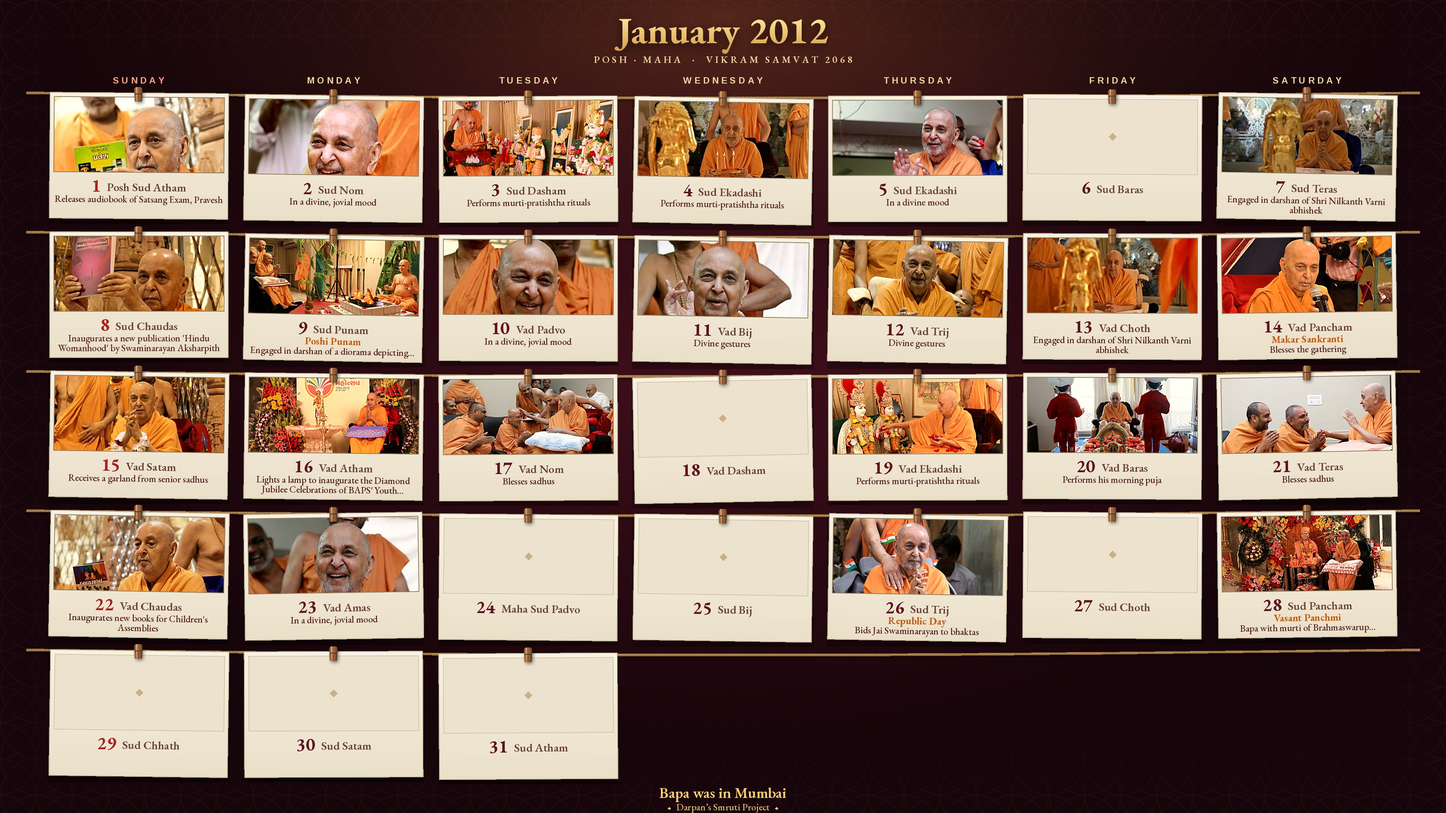
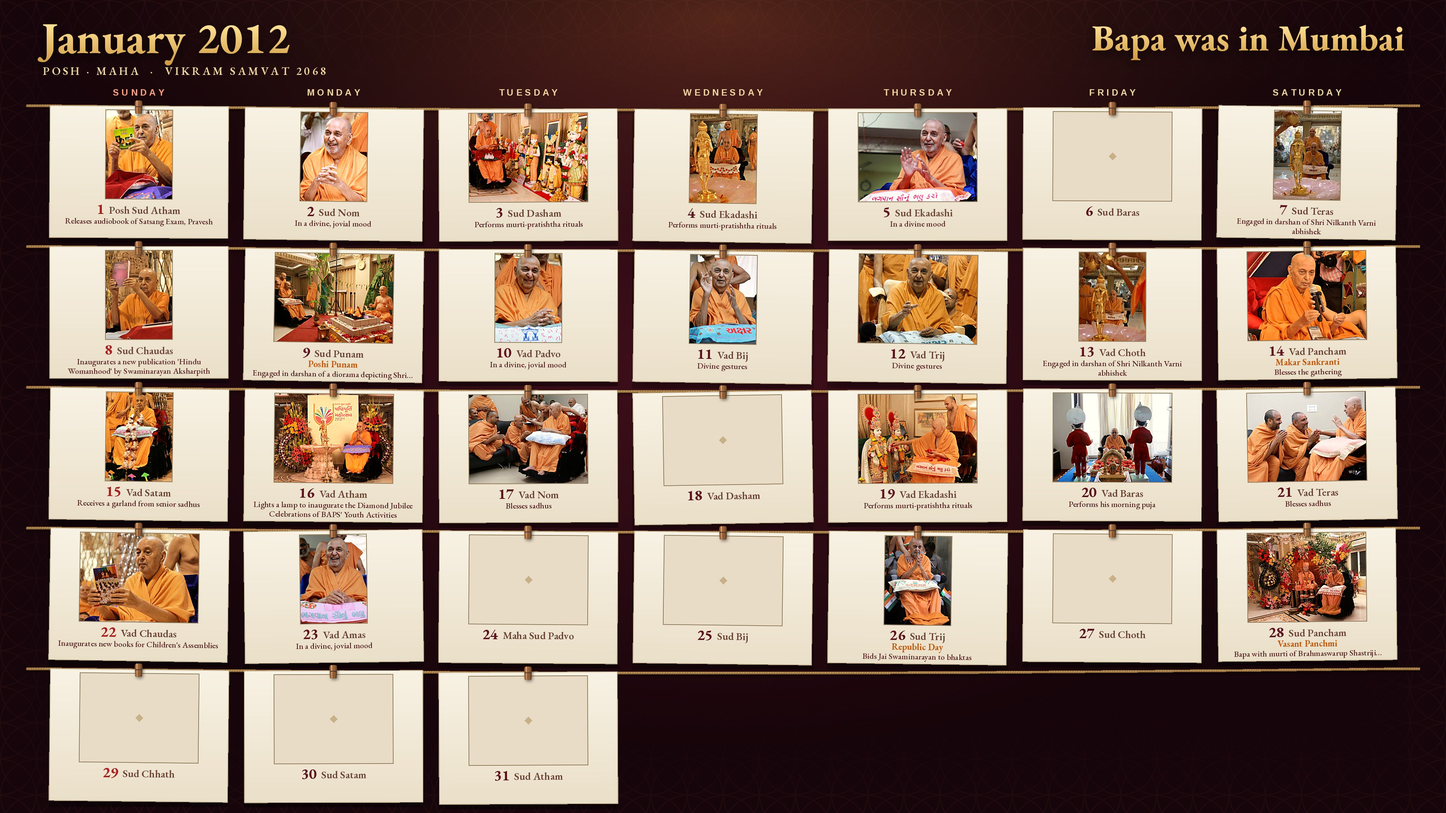
Calendar cords poster: month and where Bapa was across the top, no footer, every photo shown whole, smaller tidier text
Claude-Session: https://claude.ai/code/session_01WgprnKj5HgNVzCk1fS9hSj

diff --git a/tools/poster.py b/tools/poster.py
@@ -504,36 +504,51 @@ def m4_wide(cal, photos, y, m, S=2):
 
 
 def m4_mix(cal, photos, y, m, kind):
-    """The BAPS calendar grid in the M4 month card's look (Darpan, 23 Oct 2026): the diary's maroon, a gold title,
-    one ivory card per day hanging on a cord per week, every day shown with its Indian date. kind 'close' shows the
-    close darshans, 'act' the activities with their captions, 'mixed' the day's special moment or else its darshan.
-    16:9, 3840 x 2160."""
+    """The BAPS calendar grid in the M4 month card's look (Darpan, 23 Oct 2026): the diary's maroon, the month and
+    where Bapa was across the top, one ivory card per day hanging on a cord per week, every day with its Indian date.
+    Each photo is shown whole in a 4:3 frame (never cut). kind 'close' shows the close darshans, 'act' the activities
+    with their captions, 'mixed' the day's special moment or else its darshan (his pick). 16:9, 3840 x 2160."""
     import month as mc, make
     W2, H2 = 3840, 2160
     img = mc.canvas((W2, H2), glow=.45, jali=.08)
     d = ImageDraw.Draw(img)
     first = cal[f'{y}-{m:02d}-01']
-    mc.title(img, f'{calendar.month_name[m]} {y}', 14, 100,
-             f"{first['lunar_months'].replace('-', ' · ')}  ·  Vikram Samvat {first['vikram_samvat']}", 26)
     M = 110
+    # the top line: the month on the left, where Bapa was on the right, both large
+    tf = make.garamond(118, 700)
+    make.gold_text(img, (M, 22), f'{calendar.month_name[m]} {y}', tf)
+    sf = make.garamond(30, 600)
+    sub = f"{first['lunar_months'].replace('-', ' · ')}  ·  Vikram Samvat {first['vikram_samvat']}".upper()
+    make.draw_spaced(d, M + 4, 168, sub, sf, 6, mc.CREAM)
+    places = [re.sub(r',\s*India$', '', p) for p in (photos.get('places') or [])]
+    if places:
+        where = 'Bapa was in ' + (places[0] if len(places) == 1 else ', '.join(places[:-1]) + ' and ' + places[-1])
+        size = 96
+        while size > 50 and d.textlength(where, font=make.garamond(size, 700)) > W2 / 2 - M - 40:
+            size -= 4
+        wf = make.garamond(size, 700)
+        make.gold_text(img, (W2 - M - d.textlength(where, font=wf), 22 + (118 - size) * .7), where, wf)
     cw = (W2 - 2 * M) / 7
     for i, wd in enumerate(['SUNDAY', 'MONDAY', 'TUESDAY', 'WEDNESDAY', 'THURSDAY', 'FRIDAY', 'SATURDAY']):
         f = make.arimo_bold(24)
         sw = make.spaced(d, wd, f, 7)
-        make.draw_spaced(d, M + (i + .5) * cw - sw / 2, 200, wd, f, 7, (255, 160, 130) if i == 0 else mc.CREAM)
+        make.draw_spaced(d, M + (i + .5) * cw - sw / 2, 232, wd, f, 7, (255, 160, 130) if i == 0 else mc.CREAM)
     start = (datetime.date(y, m, 1).weekday() + 1) % 7
     nd = calendar.monthrange(y, m)[1]
     rows = 5            # a sixth week goes into the first week's empty boxes, as printed calendars do
-    gy0, gy1 = 232, H2 - 78
+    gy0, gy1 = 272, H2 - 18
     rh = (gy1 - gy0) / rows
-    card_w, card_h = cw * .92, rh - 34
-    band = 124 if kind != 'close' else 100
-    border = 12
+    border = 11
+    band = 104 if kind != 'close' else 74
+    card_h = rh - 22
+    ph = round(card_h - border - band)
+    card_w = round(cw * .92)
+    pw = card_w - 2 * border          # the photo sits whole and centred in this window, on the card's ivory
     rnd = random.Random(7)
     prev_month = None
     for r in range(rows):
-        cy = gy0 + r * rh + 14
-        mc.rope(img, mc.sag(M - 40, W2 - M + 40, cy, 80, 14), 6)
+        cy = gy0 + r * rh + 8
+        mc.rope(img, mc.sag(M - 40, W2 - M + 40, cy, 80, 12), 6)
         for c in range(7):
             dn = r * 7 + c - start + 1
             if r == 0 and dn < 1 and dn + 35 <= nd:
@@ -553,51 +568,45 @@ def m4_mix(cal, photos, y, m, kind):
             else:
                 x = act if act and act.get('special') and act.get('s_act', 0) >= 2 else close
             show_cap = x is not None and kind != 'close' and (x is act or kind == 'act')
-            pw, ph = round(card_w - 2 * border), round(card_h - border - band)
             card = mc.ivory(card_w, card_h).convert('RGBA')
             cd = ImageDraw.Draw(card)
             cd.rectangle((0, 0, card.width - 1, card.height - 1), outline=mc.IVORY_EDGE, width=2)
             if x:
-                if x is close:
-                    ph_img = make.polish(crop(os.path.join(photos['dir'], x['file']), x['face'], pw, ph, tight=True))
-                else:   # an activity fills its window around Bapa rather than shrinking onto a blurred fill
-                    ph_img = make.polish(crop(os.path.join(photos['dir'], x['file']), x['face'], pw, ph, tight=False))
-                card.paste(ph_img, (border, border))
-                cd.rectangle((border - 1, border - 1, border + pw, border + ph), outline=(150, 130, 100), width=2)
+                # the whole photo, fitted inside the window, never cut
+                im = Image.open(os.path.join(photos['dir'], x['file'])).convert('RGB')
+                im = make.polish(ImageOps.contain(im, (pw, ph), Image.LANCZOS))
+                fx, fy = border + (pw - im.width) // 2, border + (ph - im.height) // 2
+                card.paste(im, (fx, fy))
+                frame = (fx, fy, fx + im.width, fy + im.height)
             else:
-                cd.rectangle((border, border, border + pw, border + ph), fill=(236, 226, 206), outline=(214, 198, 170), width=2)
+                frame = (border + (pw - ph * 4 / 3) / 2, border, border + (pw + ph * 4 / 3) / 2, border + ph)
+                cd.rectangle(frame, fill=(232, 220, 198))
                 make.diamond(cd, card.width / 2, border + ph / 2, 10, (200, 176, 136))
-            # the band: the date and Indian date on one line, then the festival (saffron) or the caption
-            by = border + ph + 4
-            nf, tf = make.garamond(48, 700), make.garamond(31, 600)
+            cd.rectangle((frame[0] - 1, frame[1] - 1, frame[2], frame[3]), outline=(150, 130, 100), width=2)
+            # under the photo: the date and the Indian date, then the festival (saffron) and the caption, smaller
+            by = border + ph
+            nf, tf2 = make.garamond(40, 700), make.garamond(28, 600)
             num = str(dn)
-            nw = cd.textlength(num, font=nf)
-            tw = cd.textlength(tithi, font=tf)
-            x0 = (card.width - nw - 16 - tw) / 2
-            cd.text((x0, by + 48), num, font=nf, fill=(170, 34, 34) if c == 0 else MAROON, anchor='ls')
-            cd.text((x0 + nw + 16, by + 46), tithi, font=tf, fill=(110, 70, 56), anchor='ls')
+            nw, tw = cd.textlength(num, font=nf), cd.textlength(tithi, font=tf2)
+            x0 = (card.width - nw - 12 - tw) / 2
+            cd.text((x0, by + 40), num, font=nf, fill=(170, 34, 34) if c == 0 else MAROON, anchor='ls')
+            cd.text((x0 + nw + 12, by + 39), tithi, font=tf2, fill=(110, 70, 56), anchor='ls')
             lines = []
             if fest:
-                lines.append((fest[0], make.garamond(27, 700), (196, 96, 22)))
+                lines.append((fest[0], make.garamond(24, 700), (196, 96, 22)))
             if show_cap and x.get('caption'):
-                cf = make.garamond(25, 500)
-                for t in wrap(cd, x['caption'], cf, card.width - 2 * border - 6, 2 - len(lines) if kind != 'close' else 0):
+                cf = make.garamond(22, 500)
+                for t in wrap(cd, x['caption'], cf, card.width - 2 * border - 4, 2 - len(lines)):
                     lines.append((t, cf, (88, 34, 34)))
-            ly = by + 76
+            ly = by + 66
             for t, f, col in lines[:2 if kind != 'close' else 1]:
                 cd.text((card.width / 2, ly), t, font=f, fill=col, anchor='ms')
-                ly += 26
-            card = card.rotate(rnd.uniform(-1.2, 1.2), Image.BICUBIC, expand=True)
+                ly += 25
+            card = card.rotate(rnd.uniform(-1, 1), Image.BICUBIC, expand=True)
             cx = M + (c + .5) * cw
-            dip = cy + 14 * math.sin(math.pi * (cx - M + 40) / (W2 - 2 * M + 80))
-            mc.drop_card(img, card, cx, dip + card.height / 2 - 6)
-            mc.peg(img, cx, dip, 1.1)
-    places = photos.get('places') or []
-    if places:
-        f = make.garamond(40, 600)
-        t = 'Bapa was in ' + ', '.join(places[:4])
-        d.text((W2 / 2, H2 - 40), t, font=f, fill=mc.GOLD, anchor='ms')
-    mc.foot(img, 26, H2 - 34)
+            dip = cy + 12 * math.sin(math.pi * (cx - M + 40) / (W2 - 2 * M + 80))
+            mc.drop_card(img, card, cx, dip + card.height / 2 - 4)
+            mc.peg(img, cx, dip, 1.0)
     return img
 
 
